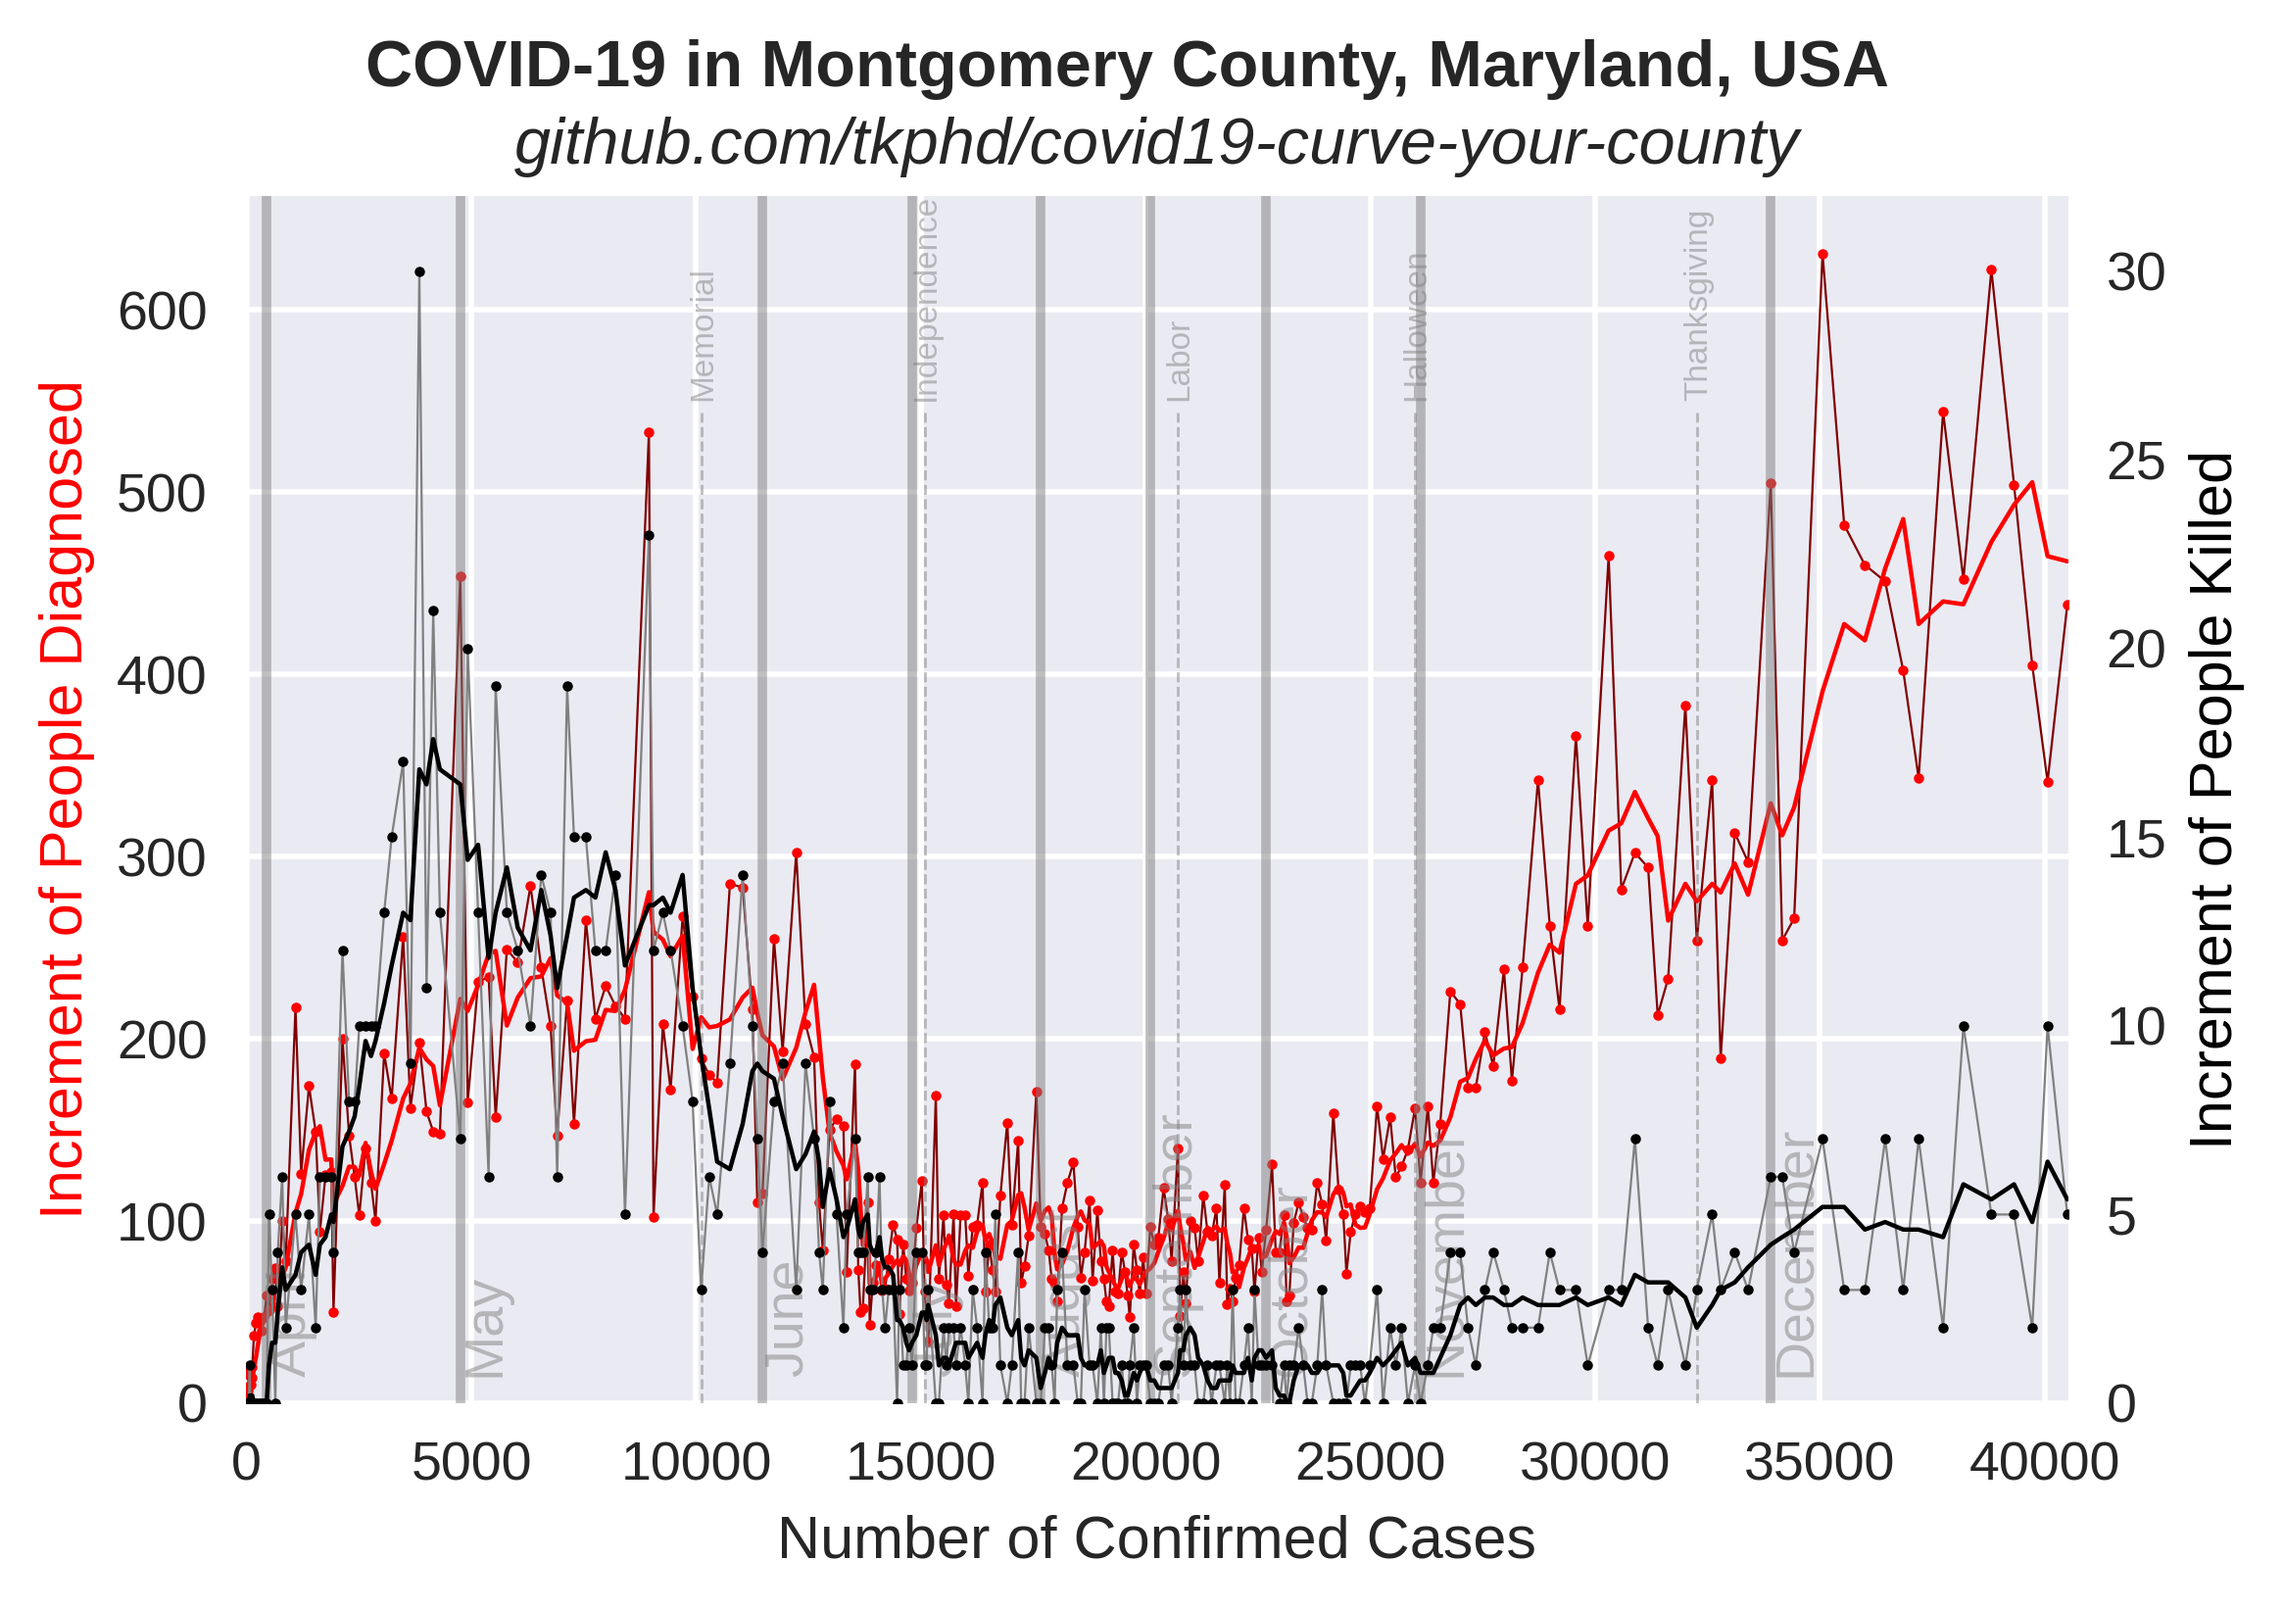
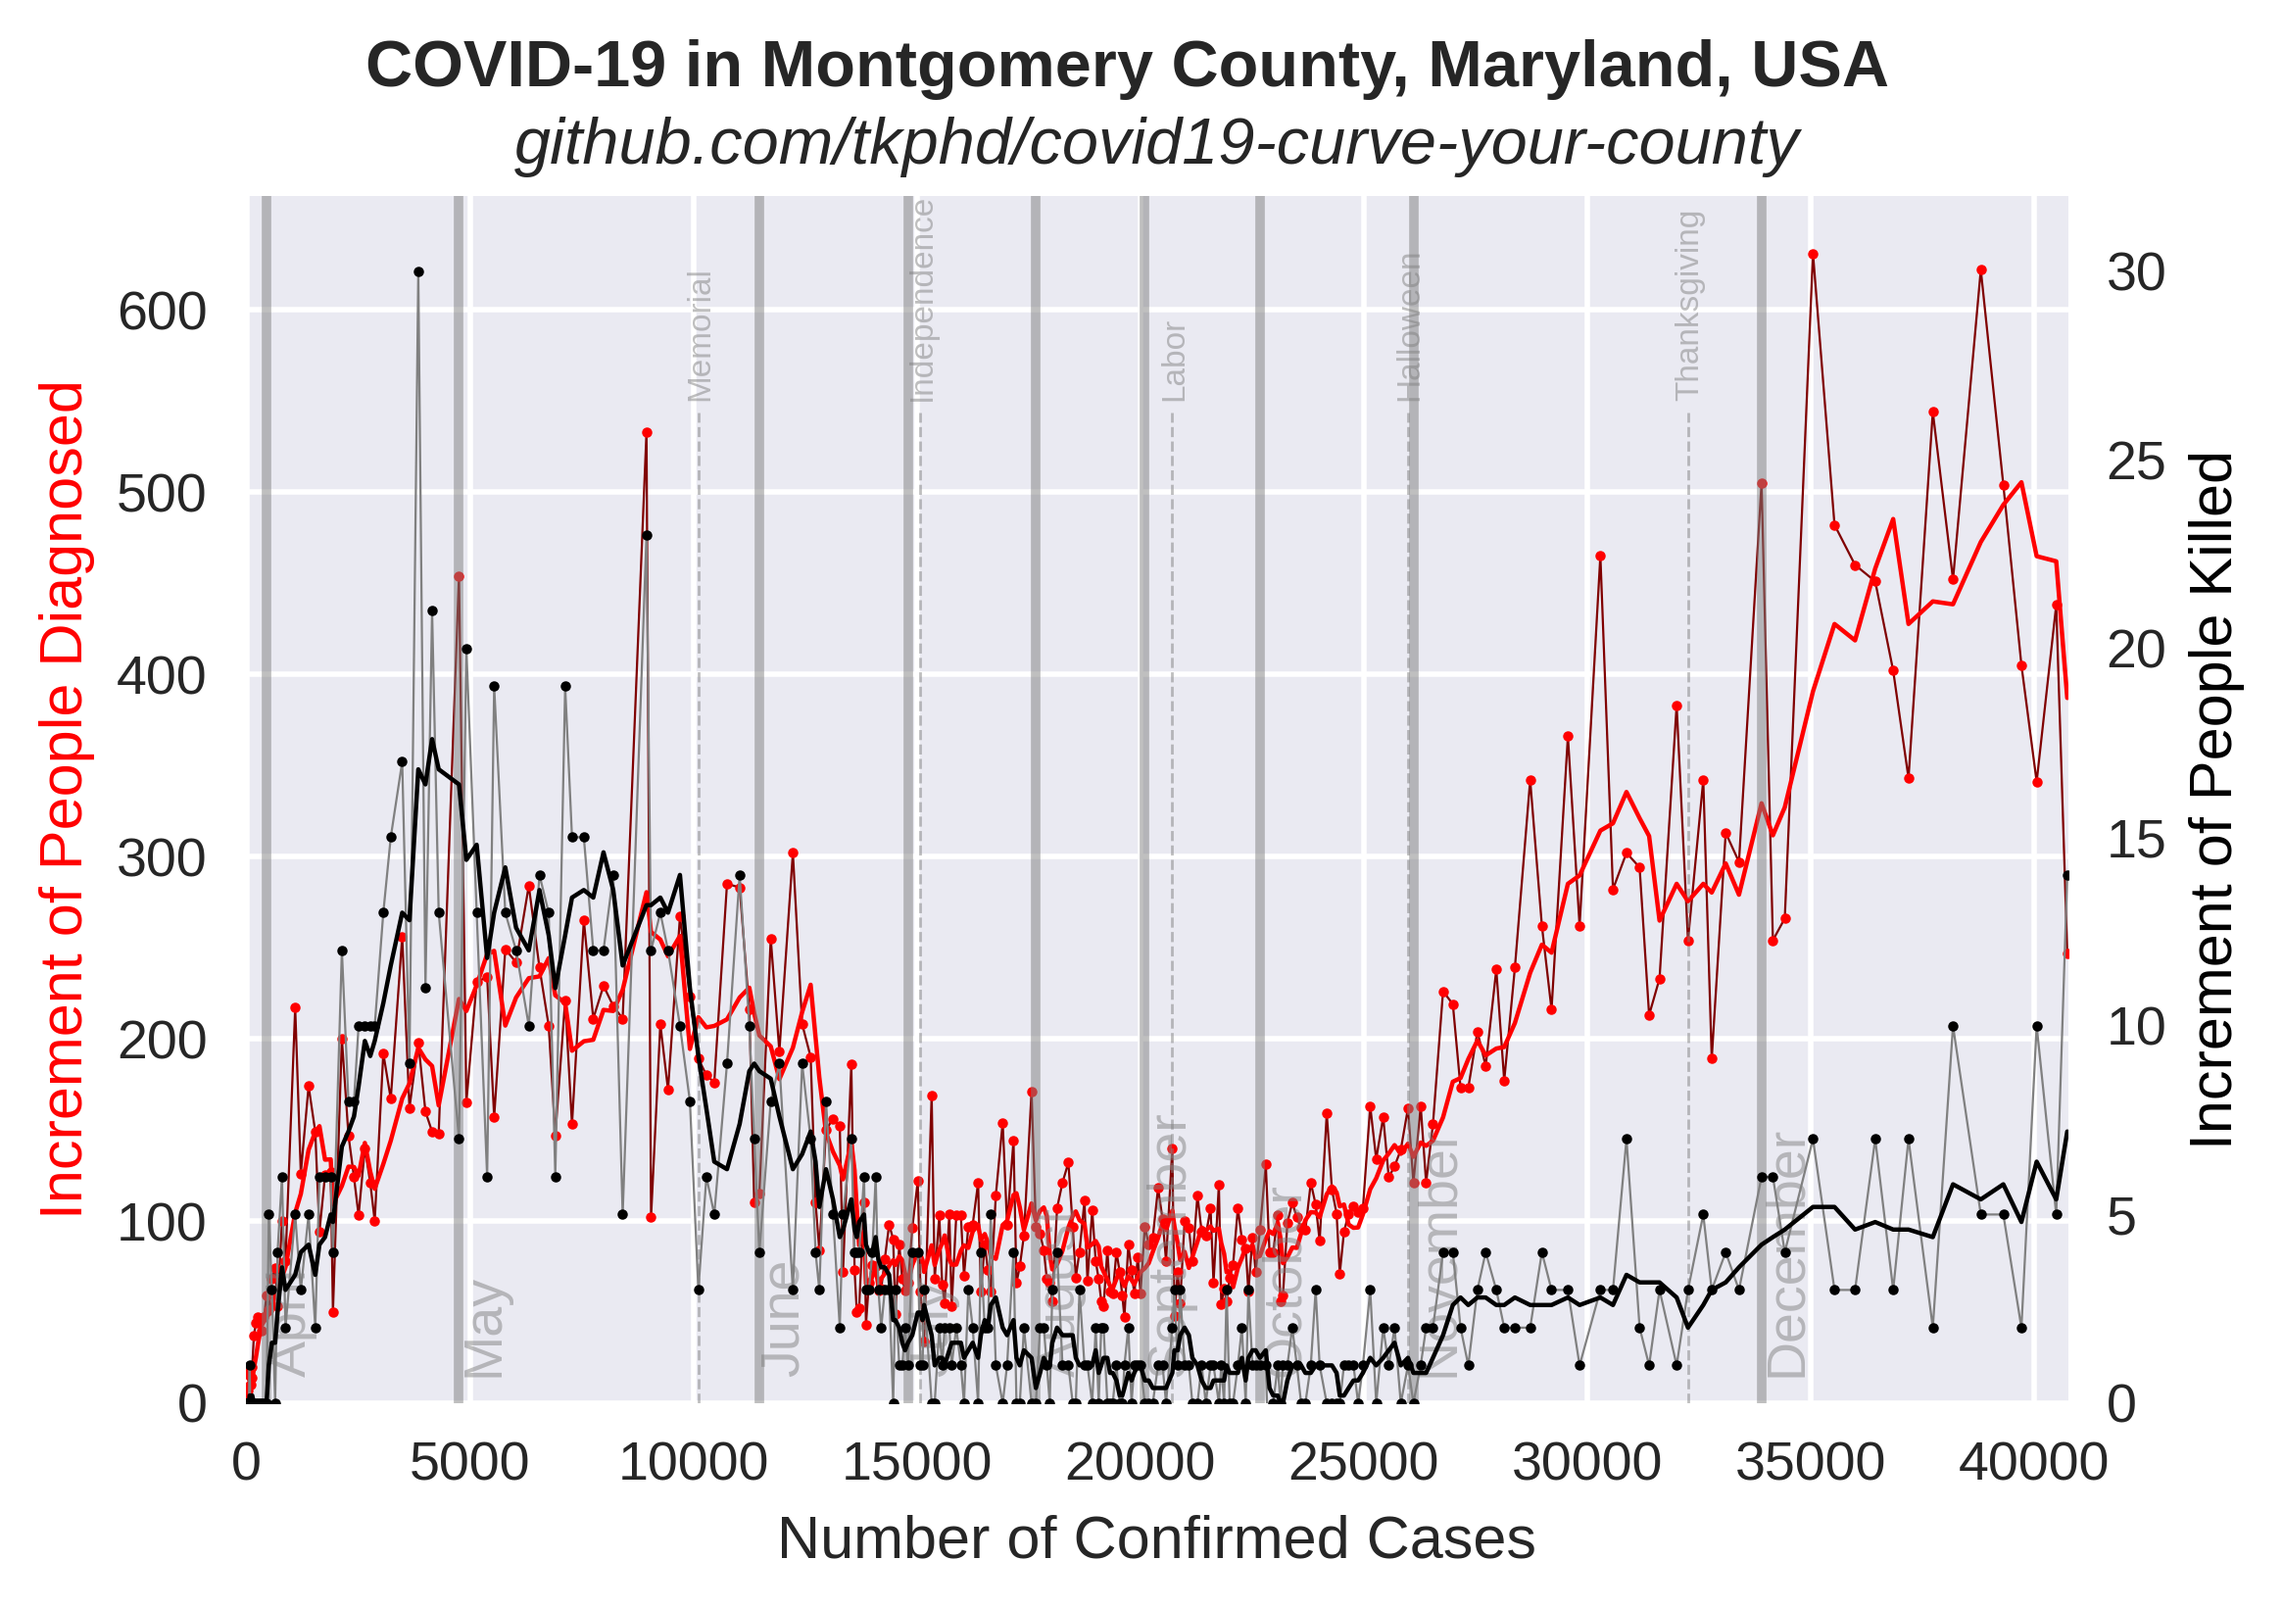
2020-12-17 update

diff --git a/scrape.py b/scrape.py
@@ -45,7 +45,7 @@ headers.append('Total_Deaths')
 
 county = data[3:-8:4]
 cases = np.array([int(x.replace(',', '')) if x else 0 for x in data[4:-7:4]])
-deaths = np.array([int(x.strip('()')) if x else 0 for x in data[5:-6:4]])
+deaths = np.array([int(x.replace(',', '').strip('()')) if x else 0 for x in data[5:-6:4]])
 related = np.array([int(x.strip('*')) if x else 0 for x in data[6:-5:4]])
 total_deaths = deaths + related
 
